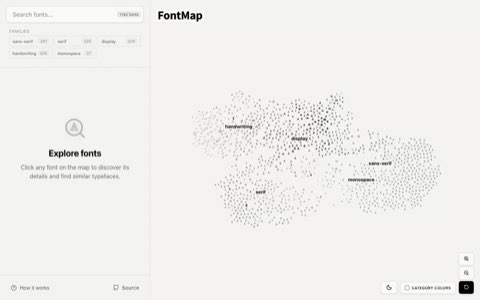
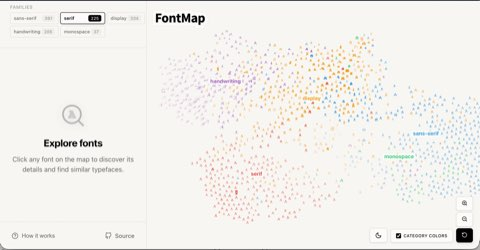
fontchooserchooser: FontMap's real card image and score
The thumbnail was the first frame of the author's demo GIF, which shows the map in
greyscale. Mark supplied a screenshot with Category Colors on, where the clusters
actually read as clusters, which is the whole point of the thing.

Score and comment count filled in at 110 and 13.

diff --git a/fontchooserchooser/index.html b/fontchooserchooser/index.html
@@ -295,6 +295,9 @@
 
 
 
+
+
+
 /* ── Display-P3, scaled ──────────────────────────────────────────────
    Same component values re-read against P3's wider primaries: hues hold,
    chroma opens up, neutrals are unchanged. sRGB displays never see this
@@ -510,10 +513,10 @@
 <div id="toast" role="status"></div>
 
 <script>
-const POSTS={"1vkq816": {"a": "lycheeru", "d": "2026-08-10", "u": 70, "c": 20, "v": null, "vd": null, "x": "Google Fonts is a great place to dig for treasure, but its filtering is far too weak. Right now I can only filter for Variable Font…"}, "1unxwtp": {"a": "DirtInternational183", "d": "2026-07-05", "u": 36, "c": 7, "v": null, "vd": null, "x": "I always had a problem when making a new project of finding what font to use. Whilst I’d know approximately what I liked, I found scrolling through a long list quite unproductive…"}, "1uavcaq": {"a": "haystack_in_needle", "d": "2026-06-20", "u": 26, "c": 1, "v": "https://v.redd.it/70q24dgukf8h1/CMAF_1080.mp4?source=fallback", "vd": 51, "x": "The idea is simple: comparing fonts should be fast enough that you do not lose your first impression."}, "1t0sced": {"a": "haystack_in_needle", "d": "2026-05-01", "u": 64, "c": 15, "v": null, "vd": null, "x": "I kept doing the same thing when comparing fonts: switch font A to font B, stare at the text, then switch back because I had already forgotten the exact difference."}, "1u1g4dk": {"a": "labdoe", "d": "2026-06-09", "u": 26, "c": 2, "v": "https://v.redd.it/49eqorco5b6h1/CMAF_1080.mp4?source=fallback", "vd": 33, "x": "When choosing a typeface, I usually start with a rough feeling in mind. Something formal, less playful, more geometric. Most font libraries don’t really support that workflow."}, "1ttldeg": {"a": "surin1", "d": "2026-06-01", "u": 1, "c": 1, "v": "https://v.redd.it/01jmdwivmm4h1/CMAF_1080.mp4?source=fallback", "vd": 25, "x": "In the process of curating typography for the app, I ended up making 30 different Google Font pairings…"}, "1tvjuda": {"a": "abhishek_8899", "d": "2026-06-03", "u": 11, "c": 3, "v": null, "vd": null, "x": "FontPocket lets you explore Google Fonts differently using technical filters, save your favourites, and come back to them anytime."}, "1t59e6j": {"a": "Patient-Phase-7199", "d": "2026-05-06", "u": 13, "c": 2, "v": null, "vd": null, "x": "(no post text, and no link — the tool was never named in the thread)"}, "1p390up": {"a": "That_Scarcity9744", "d": "2025-11-21", "u": 63, "c": 33, "v": "https://v.redd.it/un5n6m734o2g1/CMAF_1080.mp4?source=fallback", "vd": 66, "x": "I spent way too many hours scrolling through Google Fonts trying to find “that one font that feels professional but approachable but not too corporate.”"}, "1r5h1mh": {"a": "Butchered_at_Birth", "d": "2026-02-15", "u": 40, "c": 11, "v": null, "vd": null, "x": "I have a ton of local fonts and no way to quickly preview pairings with them. Every tool out there is Google Fonts only."}, "1qpyx9s": {"a": "WinterJacob", "d": "2026-01-29", "u": 0, "c": 5, "v": null, "vd": null, "x": "I usually know the vibe I want (like “clean and modern” or “cozy and rounded”), but scrolling through thousands of Google Fonts…"}, "1twfag0": {"a": "Eyrak", "d": "2026-06-04", "u": 41, "c": 10, "v": null, "vd": null, "x": "i made it just for fun. it got sans, serif, display, script, and mono. there is a quick mode for each category and then a more rigourous mode."}, "1rwgtuw": {"a": "HappyFish5000", "d": "2026-03-17", "u": 6, "c": 2, "v": null, "vd": null, "x": "Every time you want to see your text in another font, you have to go back to the font dropdown, scroll through the list, and select the next one."}, "1t1l57t": {"a": "adrmonlj", "d": "2026-05-02", "u": 5, "c": 15, "v": null, "vd": null, "x": "I’ve been teaching myself design recently and one thing I kept struggling with was picking type. Most tools let you preview fonts, but not really decide between them."}, "1qu18mx": {"a": "Bruh-Sound-Effect-6", "d": "2026-02-02", "u": 2, "c": 2, "v": null, "vd": null, "x": "An update to my previous post on pairing fonts. Since then, I have developed an application that puts the theory into practice."}, "1qf73jf": {"a": "ElonAltmann", "d": "2026-01-17", "u": 4, "c": 0, "v": null, "vd": null, "x": "Upon suggestions, I spent hours working on this tool, I hope you guys like it, its 100% Free."}, "1s1eer9": {"a": "Semi_Colonizer", "d": "2026-03-23", "u": 3, "c": 0, "v": null, "vd": null, "x": "(no post text)"}, "1shpqji": {"a": "Main-Fortune6420", "d": "2026-04-10", "u": 18, "c": 5, "v": null, "vd": null, "x": "The pairing score compares two fonts across 5 metrics: 30% x-height, 25% stroke contrast, 20% stroke type…"}, "1wp2mty": {"a": "Confident-Ad-9671", "d": "2026-09-24", "v": "https://v.redd.it/xsaqjp74xgrh1/CMAF_720.mp4?source=fallback", "vd": null, "x": "You might remember the IDEO Font Map from 2017. I always loved the idea, but it was never open source and the site’s been dead for a few years, so I rebuilt it. This one uses FontCLIP, a model trained on type, so the layout comes out a bit different from theirs."}, "1sze3g3": {"a": "joshmarinacci", "d": "2026-04-29", "u": 1, "c": 0, "v": null, "vd": null, "x": "I didn’t like any of the Google Fonts indexes out there so I built my own. It’s fast and lets you search for fonts containing specific code points and variable font axes."}, "1sfzuz5": {"a": "Sudden_Diet2923", "d": "2026-04-08", "u": 10, "c": 2, "v": "https://v.redd.it/da20dq1j60ug1/CMAF_1080.mp4?source=fallback", "vd": 17, "x": "I kept seeing beautiful posts on Instagram and thinking… why do my fonts always look slightly off?"}, "1rtpk27": {"a": "ahsenkamal", "d": "2026-03-14", "u": 2, "c": 13, "v": null, "vd": null, "x": "I recently found out there wasn’t something like this, so i built fontdb.app. Maybe I didn’t search enough…"}, "1v71yf0": {"a": "nahsgid", "d": "2026-07-26", "u": 4, "c": 1, "v": "https://v.redd.it/2zi23dgcdkfh1/CMAF_1080.mp4?source=fallback", "vd": 36, "x": "Every site I built with an agent came out with the same boring Inter or Geist fonts and a lot of AI-sloppy writing."}, "1tsg257": {"a": "0_2_Hero", "d": "2026-05-31", "u": 6, "c": 7, "v": null, "vd": null, "x": "You upload a screenshot, logo, mockup, or image with text, crop the text, and it finds the closest free Google Font match."}};
+const POSTS={"1vkq816": {"a": "lycheeru", "d": "2026-08-10", "u": 70, "c": 20, "v": null, "vd": null, "x": "Google Fonts is a great place to dig for treasure, but its filtering is far too weak. Right now I can only filter for Variable Font…"}, "1unxwtp": {"a": "DirtInternational183", "d": "2026-07-05", "u": 36, "c": 7, "v": null, "vd": null, "x": "I always had a problem when making a new project of finding what font to use. Whilst I’d know approximately what I liked, I found scrolling through a long list quite unproductive…"}, "1uavcaq": {"a": "haystack_in_needle", "d": "2026-06-20", "u": 26, "c": 1, "v": "https://v.redd.it/70q24dgukf8h1/CMAF_1080.mp4?source=fallback", "vd": 51, "x": "The idea is simple: comparing fonts should be fast enough that you do not lose your first impression."}, "1t0sced": {"a": "haystack_in_needle", "d": "2026-05-01", "u": 64, "c": 15, "v": null, "vd": null, "x": "I kept doing the same thing when comparing fonts: switch font A to font B, stare at the text, then switch back because I had already forgotten the exact difference."}, "1u1g4dk": {"a": "labdoe", "d": "2026-06-09", "u": 26, "c": 2, "v": "https://v.redd.it/49eqorco5b6h1/CMAF_1080.mp4?source=fallback", "vd": 33, "x": "When choosing a typeface, I usually start with a rough feeling in mind. Something formal, less playful, more geometric. Most font libraries don’t really support that workflow."}, "1ttldeg": {"a": "surin1", "d": "2026-06-01", "u": 1, "c": 1, "v": "https://v.redd.it/01jmdwivmm4h1/CMAF_1080.mp4?source=fallback", "vd": 25, "x": "In the process of curating typography for the app, I ended up making 30 different Google Font pairings…"}, "1tvjuda": {"a": "abhishek_8899", "d": "2026-06-03", "u": 11, "c": 3, "v": null, "vd": null, "x": "FontPocket lets you explore Google Fonts differently using technical filters, save your favourites, and come back to them anytime."}, "1t59e6j": {"a": "Patient-Phase-7199", "d": "2026-05-06", "u": 13, "c": 2, "v": null, "vd": null, "x": "(no post text, and no link — the tool was never named in the thread)"}, "1p390up": {"a": "That_Scarcity9744", "d": "2025-11-21", "u": 63, "c": 33, "v": "https://v.redd.it/un5n6m734o2g1/CMAF_1080.mp4?source=fallback", "vd": 66, "x": "I spent way too many hours scrolling through Google Fonts trying to find “that one font that feels professional but approachable but not too corporate.”"}, "1r5h1mh": {"a": "Butchered_at_Birth", "d": "2026-02-15", "u": 40, "c": 11, "v": null, "vd": null, "x": "I have a ton of local fonts and no way to quickly preview pairings with them. Every tool out there is Google Fonts only."}, "1qpyx9s": {"a": "WinterJacob", "d": "2026-01-29", "u": 0, "c": 5, "v": null, "vd": null, "x": "I usually know the vibe I want (like “clean and modern” or “cozy and rounded”), but scrolling through thousands of Google Fonts…"}, "1twfag0": {"a": "Eyrak", "d": "2026-06-04", "u": 41, "c": 10, "v": null, "vd": null, "x": "i made it just for fun. it got sans, serif, display, script, and mono. there is a quick mode for each category and then a more rigourous mode."}, "1rwgtuw": {"a": "HappyFish5000", "d": "2026-03-17", "u": 6, "c": 2, "v": null, "vd": null, "x": "Every time you want to see your text in another font, you have to go back to the font dropdown, scroll through the list, and select the next one."}, "1t1l57t": {"a": "adrmonlj", "d": "2026-05-02", "u": 5, "c": 15, "v": null, "vd": null, "x": "I’ve been teaching myself design recently and one thing I kept struggling with was picking type. Most tools let you preview fonts, but not really decide between them."}, "1qu18mx": {"a": "Bruh-Sound-Effect-6", "d": "2026-02-02", "u": 2, "c": 2, "v": null, "vd": null, "x": "An update to my previous post on pairing fonts. Since then, I have developed an application that puts the theory into practice."}, "1qf73jf": {"a": "ElonAltmann", "d": "2026-01-17", "u": 4, "c": 0, "v": null, "vd": null, "x": "Upon suggestions, I spent hours working on this tool, I hope you guys like it, its 100% Free."}, "1s1eer9": {"a": "Semi_Colonizer", "d": "2026-03-23", "u": 3, "c": 0, "v": null, "vd": null, "x": "(no post text)"}, "1shpqji": {"a": "Main-Fortune6420", "d": "2026-04-10", "u": 18, "c": 5, "v": null, "vd": null, "x": "The pairing score compares two fonts across 5 metrics: 30% x-height, 25% stroke contrast, 20% stroke type…"}, "1wp2mty": {"a": "Confident-Ad-9671", "d": "2026-09-24", "v": "https://v.redd.it/xsaqjp74xgrh1/CMAF_720.mp4?source=fallback", "vd": null, "x": "You might remember the IDEO Font Map from 2017. I always loved the idea, but it was never open source and the site’s been dead for a few years, so I rebuilt it. This one uses FontCLIP, a model trained on type, so the layout comes out a bit different from theirs.", "u": 110, "c": 13}, "1sze3g3": {"a": "joshmarinacci", "d": "2026-04-29", "u": 1, "c": 0, "v": null, "vd": null, "x": "I didn’t like any of the Google Fonts indexes out there so I built my own. It’s fast and lets you search for fonts containing specific code points and variable font axes."}, "1sfzuz5": {"a": "Sudden_Diet2923", "d": "2026-04-08", "u": 10, "c": 2, "v": "https://v.redd.it/da20dq1j60ug1/CMAF_1080.mp4?source=fallback", "vd": 17, "x": "I kept seeing beautiful posts on Instagram and thinking… why do my fonts always look slightly off?"}, "1rtpk27": {"a": "ahsenkamal", "d": "2026-03-14", "u": 2, "c": 13, "v": null, "vd": null, "x": "I recently found out there wasn’t something like this, so i built fontdb.app. Maybe I didn’t search enough…"}, "1v71yf0": {"a": "nahsgid", "d": "2026-07-26", "u": 4, "c": 1, "v": "https://v.redd.it/2zi23dgcdkfh1/CMAF_1080.mp4?source=fallback", "vd": 36, "x": "Every site I built with an agent came out with the same boring Inter or Geist fonts and a lot of AI-sloppy writing."}, "1tsg257": {"a": "0_2_Hero", "d": "2026-05-31", "u": 6, "c": 7, "v": null, "vd": null, "x": "You upload a screenshot, logo, mockup, or image with text, crop the text, and it finds the closest free Google Font match."}};
 const THUMBS={"1vkq816":{v:0,u:"media/1vkq816.jpg"},"1p390up":{v:1,u:"media/1p390up.jpg"},"1qf73jf":{v:0,u:"media/1qf73jf.jpg"},"1r5h1mh":{v:0,u:"media/1r5h1mh.jpg"},"1sfzuz5":{v:1,u:"media/1sfzuz5.jpg"},"1shpqji":{v:0,u:"media/1shpqji.jpg"},"1t0sced":{v:0,u:"media/1t0sced.jpg"},"1t1l57t":{v:0,u:"media/1t1l57t.jpg"},"1t59e6j":{v:0,u:"media/1t59e6j.jpg"},"1tsg257":{v:0,u:"media/1tsg257.jpg"},"1ttldeg":{v:1,u:"media/1ttldeg.jpg"},"1tvjuda":{v:0,u:"media/1tvjuda.jpg"},"1u1g4dk":{v:1,u:"media/1u1g4dk.jpg"},"1uavcaq":{v:1,u:"media/1uavcaq.jpg"},"1unxwtp":{v:0,u:"media/1unxwtp.jpg"},"1v71yf0":{v:1,u:"media/1v71yf0.jpg"},"1sze3g3":{v:0,u:"media/1sze3g3.jpg"},"1wp2mty":{v:1,u:"media/1wp2mty.jpg"},"1qpyx9s":{v:0,u:"media/1qpyx9s.jpg"},"1twfag0":{v:0,u:"media/1twfag0.jpg"},"1rwgtuw":{v:0,u:"media/1rwgtuw.jpg"},"1qu18mx":{v:0,u:"media/1qu18mx.jpg"},"1s1eer9":{v:0,u:"media/1s1eer9.jpg"},"1rtpk27":{v:0,u:"media/1rtpk27.jpg"}};
 const TOOLS=[
- {n:"FontMap",u:"https://huggingface.co/spaces/tfrere/font-map",r:"https://www.reddit.com/comments/1wp2mty/",t:"I rebuilt the IDEO Font Map: 1,192 Google Fonts mapped by visual similarity",sub:"r/typography",d:"Sep 2026",ups:0,cat:["browse"],spec:'"GF Rubik Dirt", sans-serif',note:"1,192 Google Fonts laid out by visual similarity, from FontCLIP embeddings reduced with UMAP, so lookalikes sit next to each other. A rebuild of IDEO’s 2017 Font Map, which was never open sourced and whose site has since gone dead. The twenty-third tool, the third to know it was not first, and the only one built because an earlier one died."},
+ {n:"FontMap",u:"https://huggingface.co/spaces/tfrere/font-map",r:"https://www.reddit.com/comments/1wp2mty/",t:"I rebuilt the IDEO Font Map: 1,192 Google Fonts mapped by visual similarity",sub:"r/typography",d:"Sep 2026",ups:110,cat:["browse"],spec:'"GF Rubik Dirt", sans-serif',note:"1,192 Google Fonts laid out by visual similarity, from FontCLIP embeddings reduced with UMAP, so lookalikes sit next to each other. A rebuild of IDEO’s 2017 Font Map, which was never open sourced and whose site has since gone dead. The twenty-third tool, the third to know it was not first, and the only one built because an earlier one died."},
  {n:"FontFridge",u:"https://font.chingru.com/",r:"https://www.reddit.com/comments/1vkq816/",t:"FontColle: an enhanced Google Fonts filter",sub:"r/typography",d:"Aug 2026",ups:70,cat:["browse"],spec:'"GF Rubik Lines", sans-serif',note:"Google Fonts can tell you a family is variable. It cannot tell you which ones carry an opsz axis, or ssXX, or hlig. This can, plus UPM, x-height and cap ratio. MIT, open source, credits every designer. The 22nd tool, and the only one that found a gap Google Fonts actually has. Under active development."},
  {n:"Jellyfont",u:"https://www.jellyfont.xyz/",r:"https://www.reddit.com/comments/1unxwtp/",t:"Jellyfont: Visual Search Engine for Fonts",sub:"r/fonts + r/typography + r/graphic_design",d:"Jul 2026",ups:36,cat:["browse"],spec:'"GF Rubik Bubbles", sans-serif',note:"Cross-posted to three subreddits, because a visual search engine for fonts sells itself thrice."},
  {n:"Font Hover Shop",u:"https://actondon.com/tools/font-hover-shop",r:"https://www.reddit.com/comments/1uavcaq/",t:"Tool for comparing fonts by hovering instead of opening a font picker repeatedly",sub:"r/fonts",d:"Jun 2026",ups:26,cat:["compare"],spec:'"GF Rubik Wet Paint", sans-serif',note:"Hovering: the innovation. This page’s cards hover-preview in its honor."},
